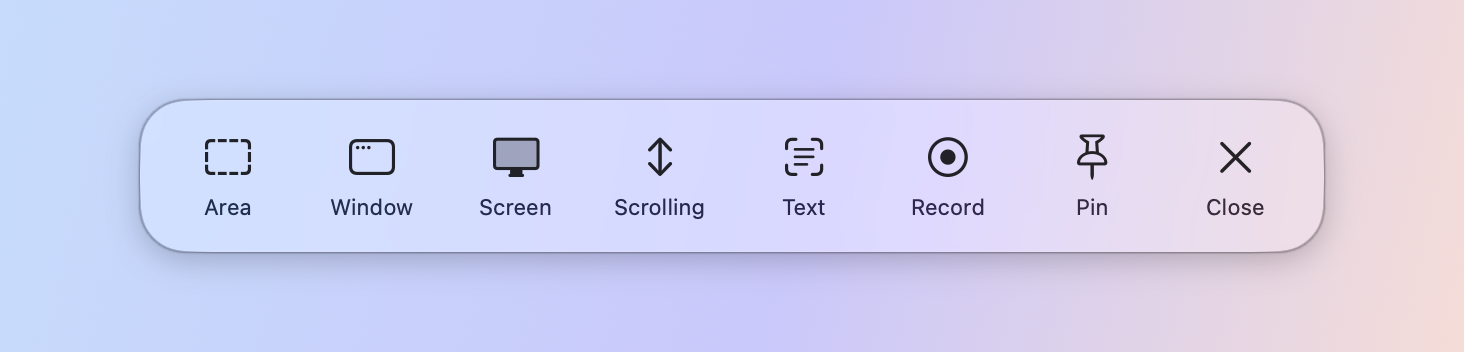
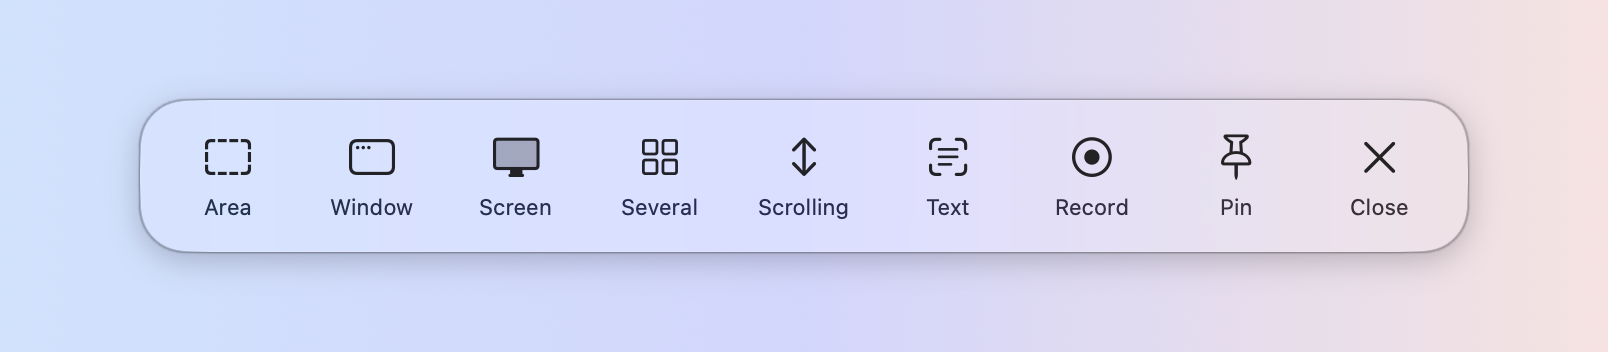
chore(release): prepare V0.4.0 Pleiades

diff --git a/.github/RELEASE_NOTES.md b/.github/RELEASE_NOTES.md
@@ -1,21 +1,25 @@
-# V0.3.0 Norma
+# V0.4.0 Pleiades
 
 <div align="center">
   <img src="https://raw.githubusercontent.com/okayzk/Kamira/main/assets/logo.png" alt="Kamira" width="120" height="120" />
-  <h1 style="margin: 12px 0 6px;">Kamira V0.3.0</h1>
+  <h1 style="margin: 12px 0 6px;">Kamira V0.4.0</h1>
   <p><em>Catch the screen, keep it light.</em></p>
 </div>
 
 ### Changelog
-1. **Line Tool**: The annotation editor has a line tool next to the arrow, for straight lines without a head.
-2. **Shift for Straight Lines, Squares and Circles**: Holding Shift keeps arrows and lines horizontal, vertical or at 45°, rectangles square and ellipses round, both while drawing them and while dragging their handles.
-3. **Copied Image Files**: Pin Clipboard Image and Annotate Clipboard Image now open an image file copied in Finder, quickly and without a large memory cost, even for a very large picture.
-4. **Lighter Area Selection**: Choosing an area to record or to capture while scrolling no longer drives memory use up by hundreds of megabytes on large or multiple screens.
+1. **Capture Several**: Select one area or window after another, then press Esc: they come out as one picture, laid out in rows.
+2. **Crop in the Editor**: The annotation editor crops the picture, and its window shrinks to the part kept.
+3. **Arrange Several Pictures**: A picture made with Capture Several comes apart again in the editor, so each part can be dragged, brought to the front or sent to the back, with a background of your choice between them.
+4. **Add a Screenshot in the Editor**: A button in the editor takes another screenshot and puts it beside the picture.
+5. **Return to Copy**: In the editor, Return copies the result, as the Copy button does.
+6. **MIT License**: Kamira is now released under the MIT License instead of GPL-3.0.
 
 ### 更新日志
-1. **直线工具**：标注工具栏在箭头旁边新增直线，用来画不带箭头的直线。
-2. **按住 Shift 画规整图形**：按住 Shift，箭头和直线只能水平、垂直或成 45°，矩形会画成正方形，椭圆会画成正圆；拖动端点和边角时也一样。
-3. **支持复制的图片文件**：在访达里复制图片文件后，“贴上剪贴板图片”和“标注剪贴板图片”可以直接打开它；图片再大也打开得很快，不会占用大量内存。
-4. **框选区域更省内存**：录屏或长截图框选区域时，在大屏或多块屏幕上，内存不再一下涨到几百 MB。
+1. **截取多张**：一块接一块地框选区域或窗口，按 Esc 后拼成一张图，按行自动排好。
+2. **编辑器裁剪**：标注编辑器可以裁剪图片，裁完窗口随之缩到留下的大小。
+3. **编辑器里摆放多张图**：截取多张得到的图，在编辑器里会重新分成一张张，可以随意拖动、调整上下层，还能选图片之间的背景色。
+4. **编辑器里追加截图**：在编辑器里点一下按钮就能再截一张，新图自动放在旁边。
+5. **回车复制**：在编辑器里按回车，和点“复制”一样。
+6. **改用 MIT 许可证**：Kamira 不再采用 GPL-3.0，改为 MIT 许可证发布。
 
 > https://github.com/okayzk/Kamira

diff --git a/README.md b/README.md
@@ -78,16 +78,16 @@ xattr -dr com.apple.quarantine "/Applications/Kamira.app"
 </tr>
 <tr>
   <td colspan="2" align="center">
-    <img src="assets/en/panel.png" alt="The Quick Panel: Area, Window, Screen, Scrolling, Text, Record, Pin" width="620" /><br/>
+    <img src="assets/en/panel.png" alt="The Quick Panel: Area, Window, Screen, Several, Scrolling, Text, Record, Pin" width="620" /><br/>
     <sub><b>Quick Panel (All in One)</b><br/>⇧⌘5 brings up every action in one bar.</sub>
   </td>
 </tr>
 </table>
 
-- **Screenshots**: capture an area, a window, or the whole screen and copy it automatically to the clipboard. Optionally save captures to a folder of your choice with custom file naming.
+- **Screenshots**: capture an area, a window, or the whole screen and copy it automatically to the clipboard. Optionally save captures to a folder of your choice with custom file naming. Capture several in a row and press Esc to get them as one picture.
 - **Floating preview**: screenshots and recordings appear as preview cards, with an optional auto-dismiss timer. Several cards stack into a single pile with only the newest in full view, and spread out when you move the pointer over them, so a run of screenshots never takes over the screen the way it can in CleanShot X.
 - **Pins**: keep a screenshot above other windows for reference. It becomes translucent when you move the pointer over it.
-- **Annotation**: add arrows, lines, shapes, freehand strokes, highlights, text, numbered markers, and pixelation. Hold Shift for level lines, squares, and circles. Zoom in to edit fine details.
+- **Annotation**: add arrows, lines, shapes, freehand strokes, highlights, text, numbered markers, and pixelation. Hold Shift for level lines, squares, and circles. Zoom in to edit fine details, or crop. Several screenshots can be dragged apart, restacked and set on a background of your choice, and another can be added from the editor. Return copies.
 - **Scrolling capture**: select a region and scroll manually to stitch a long image with a live preview. Overlapping content in consecutive frames is matched while fixed headers, sidebars, and similar elements are excluded from matching. Stitching has been verified on a test page with translucent Liquid Glass overlays.
 - **Text recognition (OCR)**: select an area to recognise and copy Chinese and English text entirely on your Mac, with no network connection needed. Text from multiple columns on the same line stays together, useful for tables and code.
 - **Recording**: record an area, a window, or the whole screen as video or GIF, with microphone and system audio available for video recordings.

diff --git a/README_CN.md b/README_CN.md
@@ -76,16 +76,16 @@ xattr -dr com.apple.quarantine "/Applications/Kamira.app"
 </tr>
 <tr>
   <td colspan="2" align="center">
-    <img src="assets/zh-Hans/panel.png" alt="快捷面板：区域、窗口、全屏、长截图、文字、录屏、贴图" width="620" /><br/>
+    <img src="assets/zh-Hans/panel.png" alt="快捷面板：区域、窗口、全屏、多张、长截图、文字、录屏、贴图" width="620" /><br/>
     <sub><b>快捷面板（All in One）</b><br/>按 ⇧⌘5，所有操作排成一行。</sub>
   </td>
 </tr>
 </table>
 
-- **截图**：支持区域、窗口和全屏截图，自动复制到剪贴板，也可自动保存到指定文件夹。支持自定义文件名。
+- **截图**：支持区域、窗口和全屏截图，自动复制到剪贴板，也可自动保存到指定文件夹。支持自定义文件名。还能连续截取多张，按 Esc 后自动拼成一张。
 - **悬浮预览**：截图和录屏后显示预览卡片，可设置自动消失时间。多张卡片会叠成一摞，只露出最新一张，鼠标移上去才展开；不像 CleanShot X 那样截图一多就占掉大片屏幕。
 - **贴图**：将截图置顶，方便对照其他窗口；鼠标移上去时自动变为半透明。
-- **标注**：支持箭头、直线、形状、画笔、高亮、文字、序号和马赛克，按住 Shift 可画水平线、正方形和正圆；还能放大图片编辑细节。
+- **标注**：支持箭头、直线、形状、画笔、高亮、文字、序号和马赛克，按住 Shift 可画水平线、正方形和正圆；还能放大图片编辑细节，或裁剪图片。多张截图在编辑器里可以分开拖动、调整上下层、选背景色，也能直接在编辑器里追加截图。按回车即复制。
 - **滚动长截图**：框选区域后手动滚动，自动拼接并实时预览。通过匹配相邻画面的重叠区域完成拼接，排除固定页眉、侧栏等元素的干扰；已在带有液态玻璃半透明浮层的测试页面中验证拼接效果。
 - **识别文字（OCR）**：在本机识别中英文，框选即可复制，全程无需联网。保留同一行的多列文字，方便处理表格和代码。
 - **录屏**：支持区域、窗口和全屏录制，可录制麦克风及系统声音，保存为视频或 GIF。
